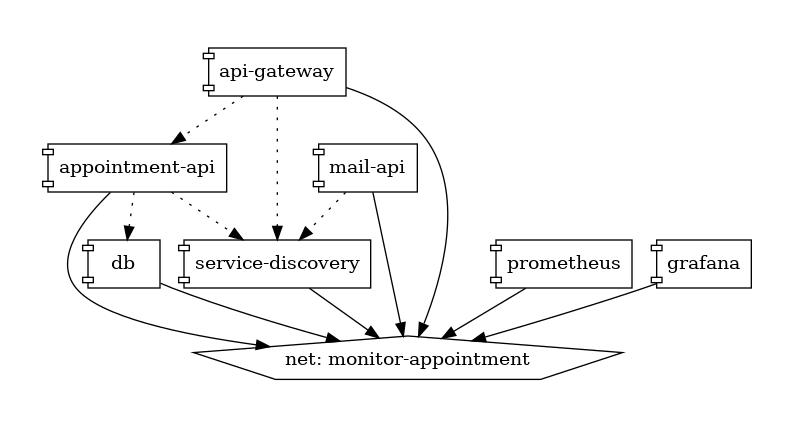
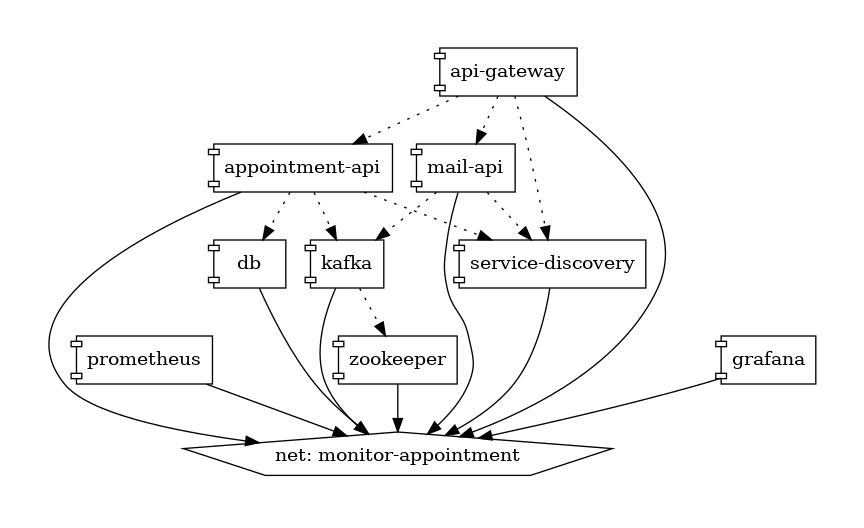
#6 documentation updated for message broker

diff --git a/readme.md b/readme.md
@@ -31,6 +31,23 @@ mailing service, prescription api, patient history, admin dashboard, patient das
 <h6>Server</h6>
 <li>Tomcat</li>
 
+<h6>Message Broker</h6>
+<p>Kafka with Zookeeper</p>
+
+[Github image URL](https://gist.github.com/rmoff/fb7c39cc189fc6082a5fbd390ec92b3d)
+</br>
+Manually creating topic and testing via consumer and producer
+
+1. Connecting to container
+   <code>docker exec -it <container-id> /bin/bash</code>
+2. Creating new queue
+   <code>kafka-topics --create --topic appointment-mail-topic --partitions 2 --replication-factor 1 --zookeeper zookeeper:2181</code>
+3. Producer
+   <code>kafka-console-producer --broker-list localhost:29092 --topic appointment-mail-topic</code>
+4. consumer
+   <code>kafka-console-consumer --bootstrap-server localhost:29092 --topic appointment-mail-topic --from-beginning</code>
+   
+
 <h5>Design</h5>
 <p>To generate docker compose diagram:</p>
 <h6>Architecture Diagram</h6>
